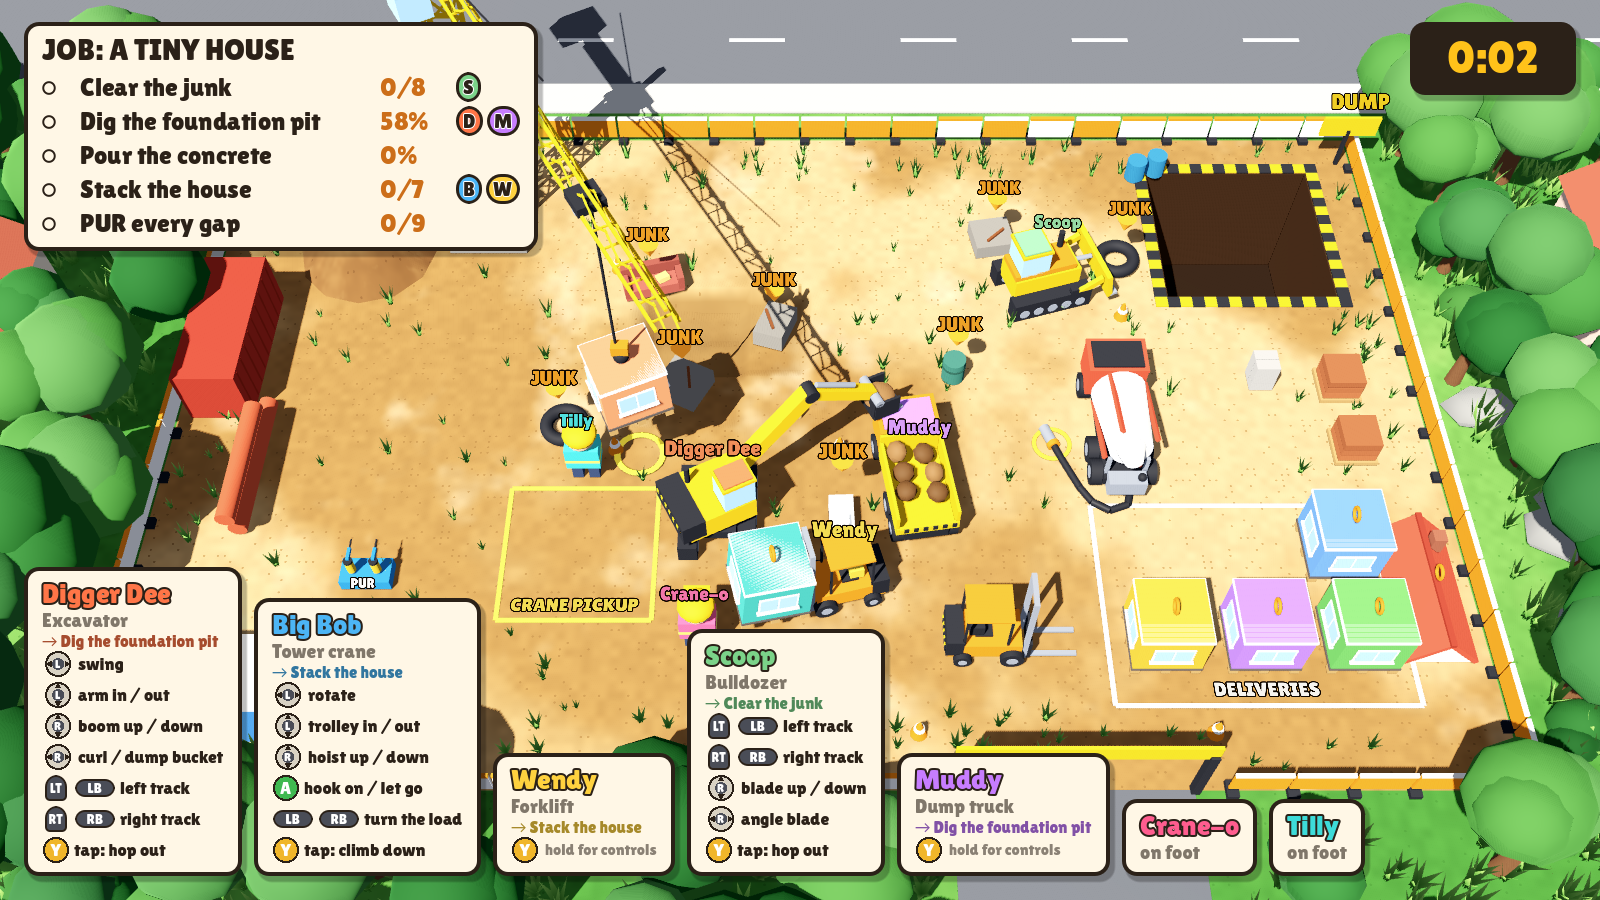
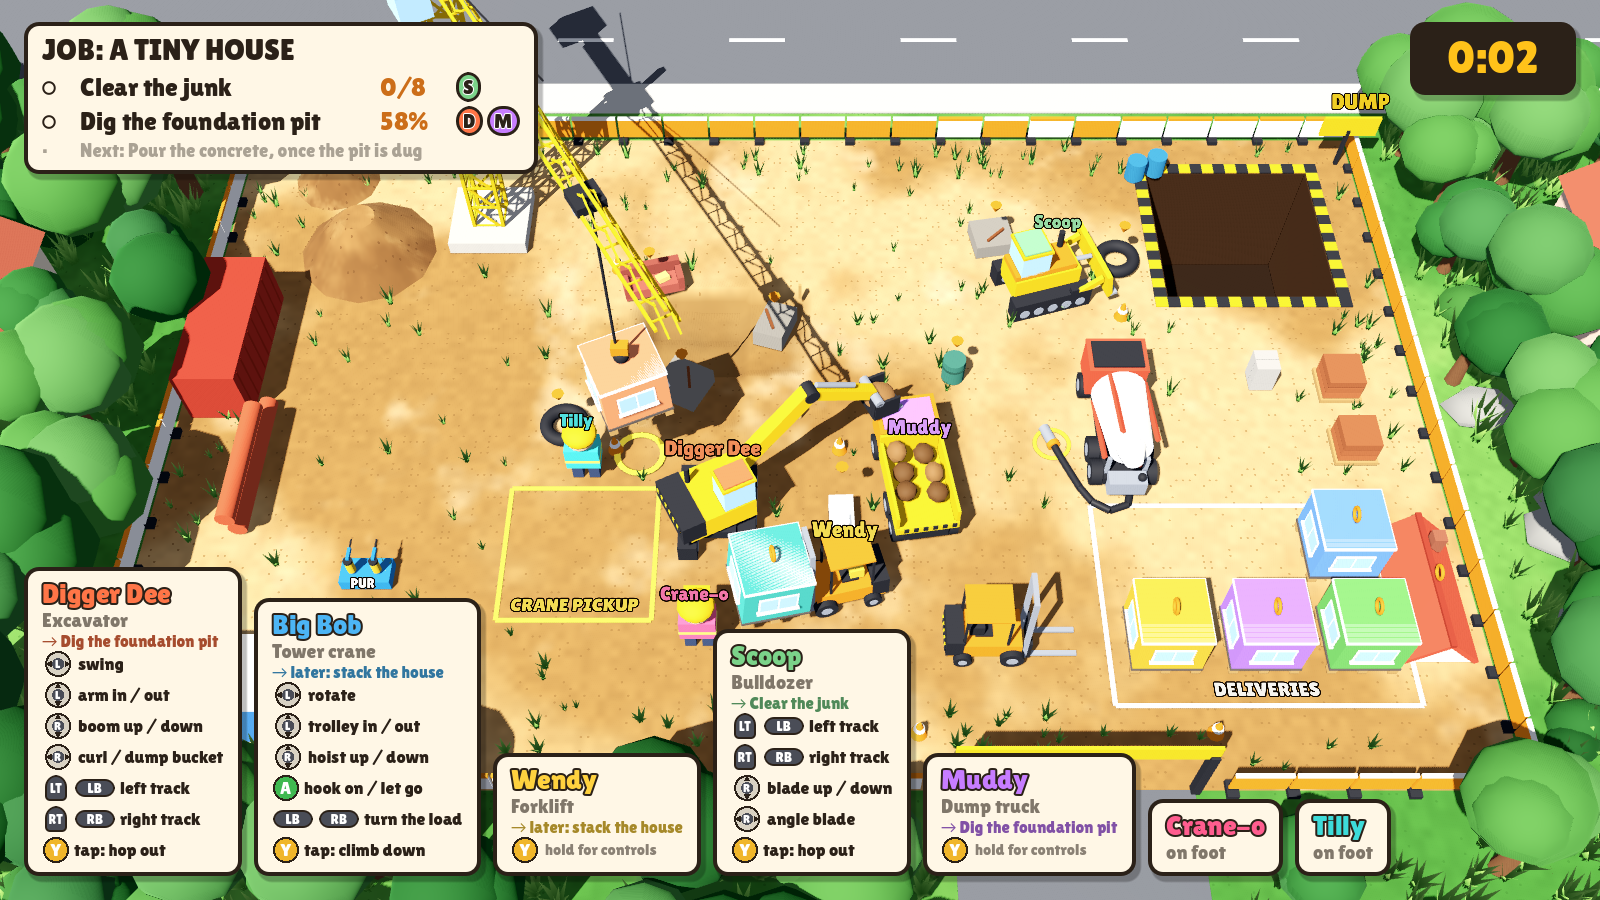
Job steps unlock in order; subtler junk markers
Junk and digging are open from the start, the pour opens once the pit is
dug, stacking once the slab has set and PUR once the first gap appears. The
job card shows open steps large, finished ones small and dim, and only the
next locked step as a hint. Junk markers are now small plain orange cones.

Claude-Session: https://claude.ai/code/session_012qGoxj4nUFzQCJ7vE5oWcN

diff --git a/README.md b/README.md
@@ -15,9 +15,11 @@ That is the point.
 
 ## The job: a tiny house
 
+Steps unlock as you go. Junk and digging are open from the start; the pour opens once the pit is dug, stacking once the concrete has set, and PUR as soon as two parts touch. The job card shows the open steps big, done ones small, and only the next locked one.
+
 | Step | Who | How |
 | --- | --- | --- |
-| Clear the junk | Bulldozer | Push everything with an orange **JUNK** arrow (sofa, tyres, slabs, barrel, old fridge) into the **DUMP** hole. Careful: drive over the edge and your machine falls in too, and comes back at its spawn |
+| Clear the junk | Bulldozer | Push everything with a small orange marker (sofa, tyres, slabs, barrel, old fridge) into the **DUMP** hole. Careful: drive over the edge and your machine falls in too, and comes back at its spawn |
 | Dig the foundation pit | Excavator | Scoop the nine pit cells 0.8 m deep. The whole site is sand: dig anywhere, and dirt dropped on the ground piles up where it lands |
 | Haul the dirt | Excavator + dump truck | Dump into the truck, drive it to the hole, tip the bed. Dirt spilled back into the pit fills it again |
 | Pour the concrete | Concrete truck + builder on foot | Park the mixer near the pit, press X to start the pump, then grab the hose on foot and pour every dug cell full. The hose only reaches 11 m and missed concrete splats on the sand |
